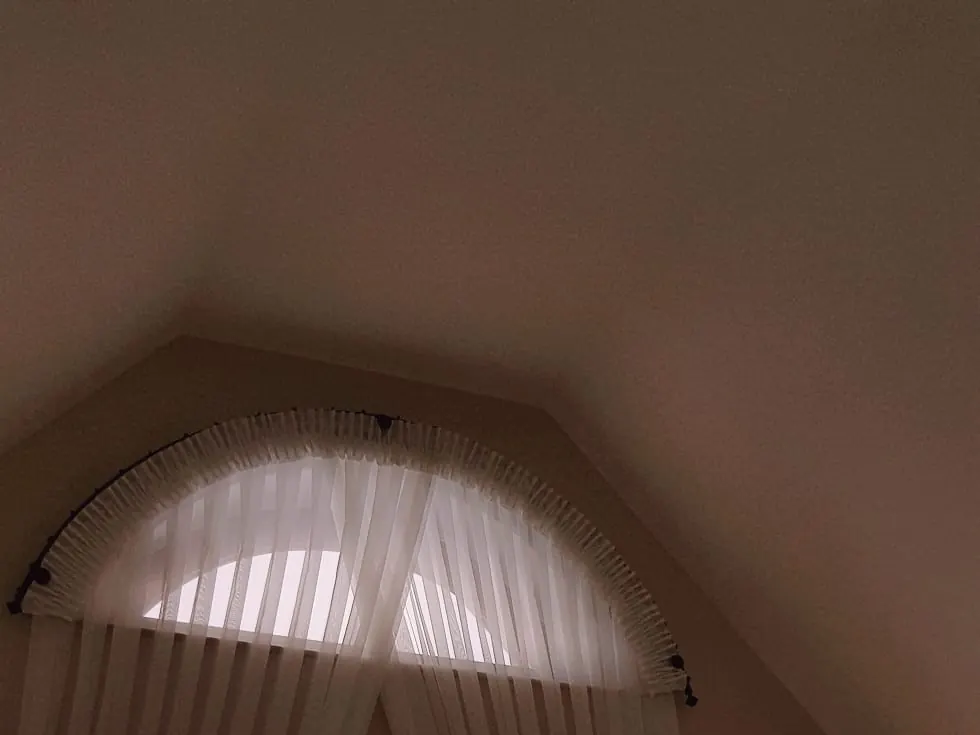
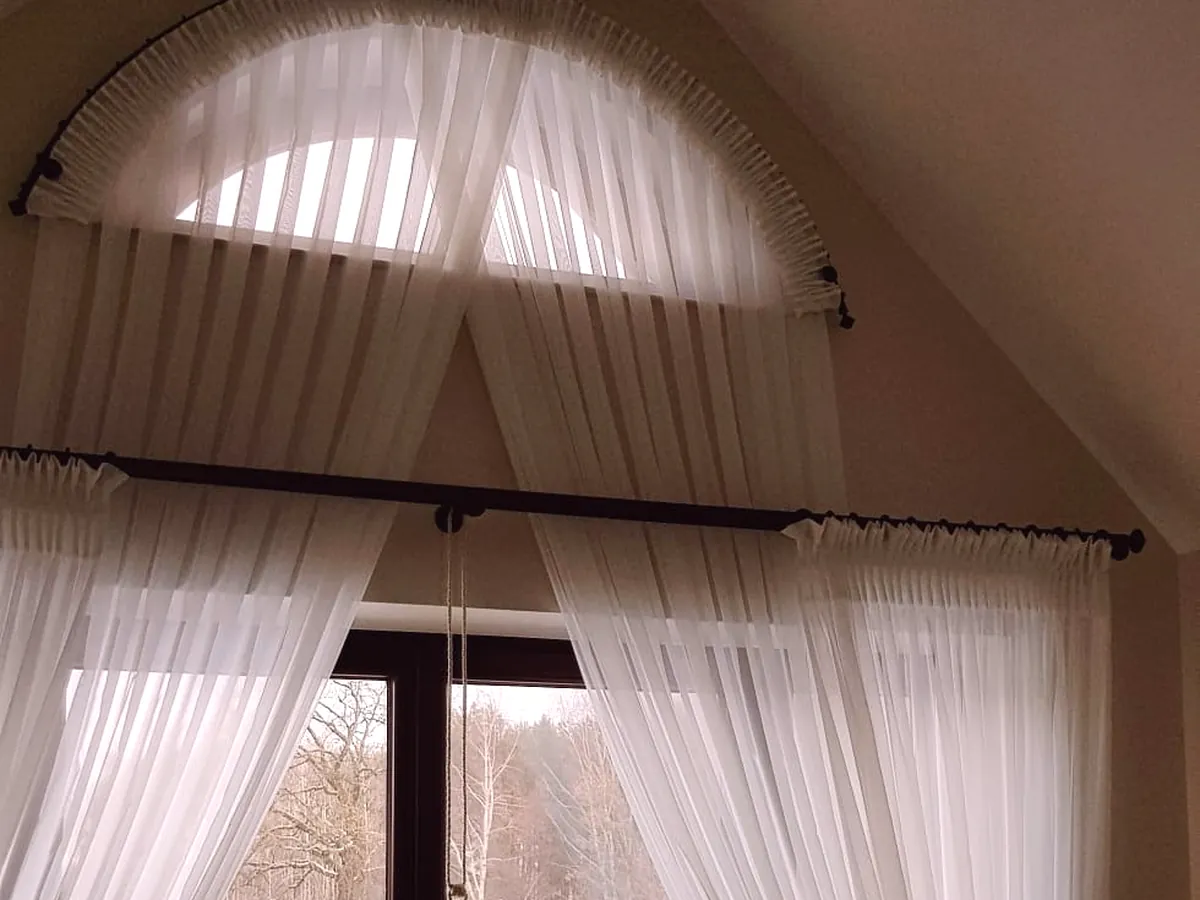
Nowe zdjęcie rolety austriackiej, karnisz łukowy w pełnym kadrze

diff --git a/decor-prestige/src/data/products.js b/decor-prestige/src/data/products.js
@@ -62,7 +62,7 @@ export const products = [
       { label: 'Roleta rzymska ozdobna',  image: '/foto/rolety/rzymska-ozdobna.webp' },
       { label: 'Roleta falista',          image: '/foto/rolety/falista.webp' },
       { label: 'Roleta duo',              image: '/foto/rolety/duo.webp' },
-      { label: 'Roleta austriacka',       image: '/foto/rolety/austriacka.webp' },
+      { label: 'Roleta austriacka',       image: '/foto/rolety/austriacka-v2.webp' },
     ],
   },
   {
@@ -115,7 +115,7 @@ export const realizacje = [
   { id: 'r01', category: 'zaslony', image: '/foto/realizacje/poddasze-szczyt.webp', alt: 'Zasłony na szczytowym oknie poddasza', title: 'Zasłony na szczytowym oknie poddasza' },
   { id: 'r02', category: 'zaslony', image: '/foto/realizacje/salon-czern-zloto.webp', alt: 'Salon — zasłony czarno-złote i firany wave', title: 'Salon — zasłony czarno-złote i firany wave' },
   { id: 'r03', category: 'rolety', image: '/foto/realizacje/roleta-wykusz.webp', alt: 'Rolety rzymskie w wykuszu', title: 'Rolety rzymskie w wykuszu' },
-  { id: 'r04', category: 'karnisze', image: '/foto/realizacje/karnisz-lukowy.webp', alt: 'Karnisz łukowy nad oknem z półokręgiem', title: 'Karnisz łukowy nad oknem z półokręgiem' },
+  { id: 'r04', category: 'karnisze', image: '/foto/realizacje/karnisz-lukowy.webp', full: '/foto/realizacje/karnisz-lukowy-full.webp', alt: 'Karnisz łukowy nad oknem z półokręgiem', title: 'Karnisz łukowy nad oknem z półokręgiem' },
   { id: 'r05', category: 'zaslony', image: '/foto/realizacje/fala-led.webp', alt: 'Zasłona wave z podświetleniem', title: 'Zasłona wave z podświetleniem' },
   { id: 'r06', category: 'zaslony', image: '/foto/realizacje/skos-poddasze.webp', alt: 'Zasłona na skosie poddasza', title: 'Zasłona na skosie poddasza' },
   { id: 'r07', category: 'rolety', image: '/foto/realizacje/roleta-lniana.webp', alt: 'Lniana roleta rzymska', title: 'Lniana roleta rzymska' },
@@ -143,7 +143,7 @@ export const realizacje = [
   { id: 'r29', category: 'zaslony', image: '/foto/realizacje/sypialnia-fala.webp', alt: 'Sypialnia — zasłona wave', title: 'Sypialnia — zasłona wave' },
   { id: 'r60', category: 'zaslony', image: '/foto/realizacje/salon-zyrafa.webp', alt: 'Salon — firany wave i zasłony we wzór', title: 'Salon — firany wave i zasłony we wzór' },
   { id: 'r61', category: 'zaslony', image: '/foto/realizacje/firana-wave-tapeta.webp', alt: 'Firana wave nad oknem', title: 'Firana wave nad oknem' },
-  { id: 'r62', category: 'rolety', image: '/foto/realizacje/austriacka-biala.webp', alt: 'Roleta austriacka', title: 'Roleta austriacka' },
+  { id: 'r62', category: 'rolety', image: '/foto/realizacje/austriacka-v2.webp', alt: 'Roleta austriacka', title: 'Roleta austriacka' },
   { id: 'r63', category: 'zaslony', image: '/foto/realizacje/wave-szare-roleta.webp', alt: 'Zasłony wave z firaną', title: 'Zasłony wave z firaną' },
   { id: 'r64', category: 'zaslony', image: '/foto/realizacje/skos-braz.webp', alt: 'Zasłona na skosie z upięciem', title: 'Zasłona na skosie z upięciem' },
   { id: 'r65', category: 'rolety', image: '/foto/realizacje/kuchnia-rzymskie.webp', alt: 'Rolety rzymskie w kuchni', title: 'Rolety rzymskie w kuchni' },

diff --git a/decor-prestige/src/pages/RealizacjePage/RealizacjePage.jsx b/decor-prestige/src/pages/RealizacjePage/RealizacjePage.jsx
@@ -110,7 +110,7 @@ function Lightbox({ items, index, onClose, onNav }) {
         </>
       )}
       <figure className={styles.lightboxFigure} onClick={(e) => e.stopPropagation()}>
-        <img src={item.image} alt={item.alt} className={styles.lightboxImage} />
+        <img src={item.full || item.image} alt={item.alt} className={styles.lightboxImage} />
         <figcaption className={styles.lightboxCaption}>
           {item.title}
           <span className={styles.lightboxCount}>{index + 1} / {items.length}</span>
